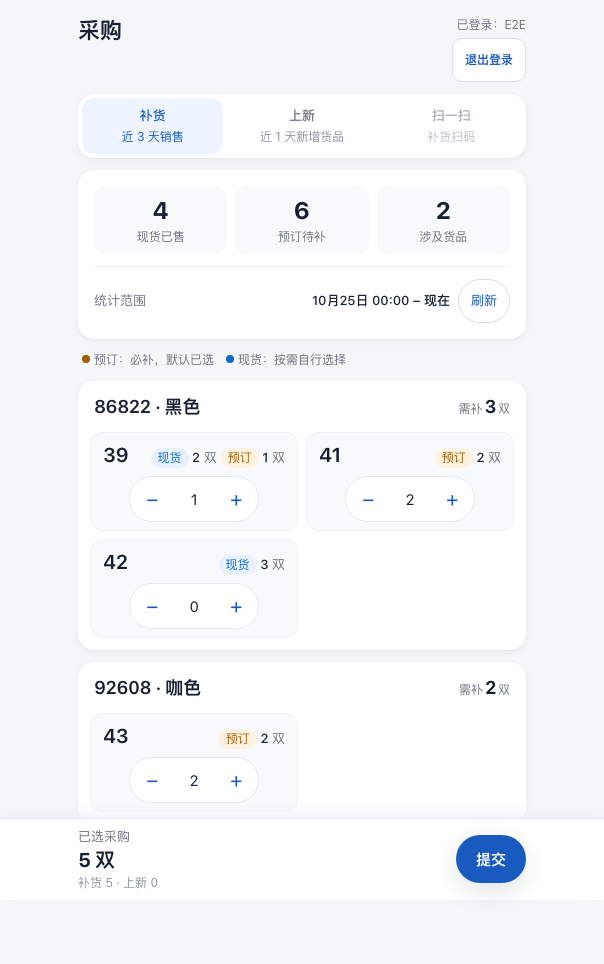
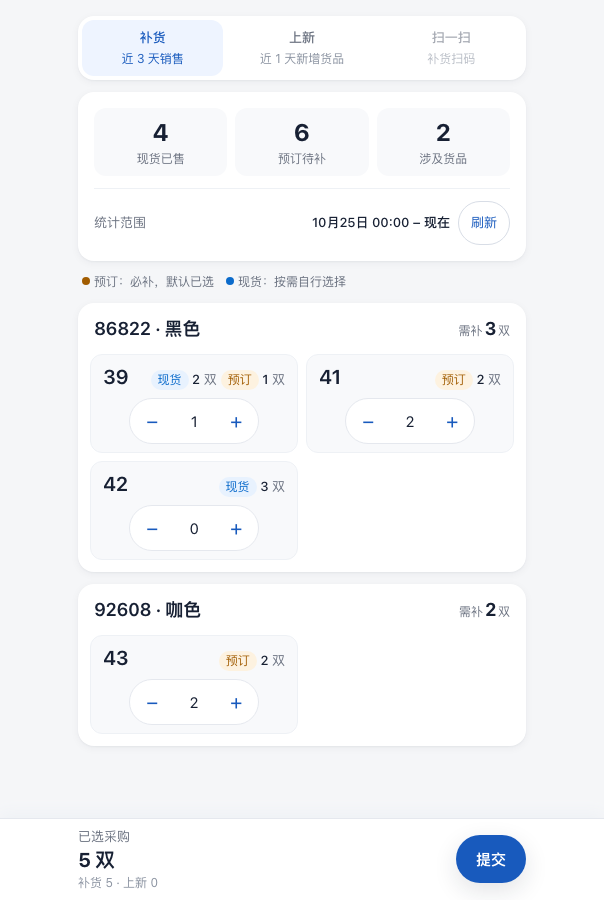
fix(procurement): 顶部去掉登录态（对照交割单页）+ 上新供应商为空不显示「·」
业务负责人 2026-10-29 手机实测：
- 页面顶部**不再渲染登录态**（已登录/退出登录整块去掉），与交割单页一致；顶部直接是三个 tab；
  后台鉴权保留（新增 features/procurement/auth.js：只取身份，401 跳登录，不渲染 UI）；
- 上新卡片副标题：供应商为空时显示「今日 HH:mm 新增」（不再多一个孤立的「·」）；
- 新增 AC-P18e/P18f；frontend 8 绿；e2e 16 passed；全量 2298 tests / 2297 pass / 0 fail；size:check 绿。

diff --git a/server/public/workbench/features/procurement/render.js b/server/public/workbench/features/procurement/render.js
@@ -120,9 +120,11 @@ const newRowHtml = (group, size, draft, store, config) => {
 };
 
 export const newGroupHtml = (group, draft, store, config) => {
-  const subtitle = fill(config.card.newSubtitle, {
+  const supplier = String(group.supplierName || '').trim();
+  // 供应商为空 ⇒ 用无「·」的模板（否则卡片小字会多一个孤零零的「·」）
+  const subtitle = fill(supplier ? config.card.newSubtitle : config.card.newSubtitleNoSupplier, {
     time: formatClock(group.createdAt, config.timezoneOffsetMinutes),
-    supplier: group.supplierName || '',
+    supplier,
   });
   const head = `<div class="pr-group-head">
     <h2 class="pr-group-name">${escapeHtml(titleOf(group, config))}<small>${escapeHtml(subtitle)}</small></h2>
@@ -160,11 +162,9 @@ export const shellHtml = (config) => {
     }
     return `<button ${attrs.join(' ')}>${escapeHtml(tab.label)}<small>${escapeHtml(tab.hint)}</small></button>`;
   }).join('');
-  return `<header class="pr-top">
-    <h1 class="pr-title">${escapeHtml(config.title)}</h1>
-    <div class="pr-auth"><span id="auth-status"></span><button id="logout" class="btn pr-logout hidden" type="button">${escapeHtml(config.texts.logout)}</button></div>
-  </header>
-  <div class="pr-tabs" role="tablist" aria-label="${escapeHtml(config.title)}">${tabs}</div>
+  // 业务负责人 2026-10-29（对照交割单页）：**移动端页面不放登录态** —— 顶部直接是三个 tab，
+  // 省出宽度/高度（登录/退出由外层飞书容器处理，页面内不需要重复展示）。
+  return `<div class="pr-tabs" role="tablist" aria-label="${escapeHtml(config.title)}">${tabs}</div>
   <div class="pr-panel" data-pr-panel="replenish"></div>
   <div class="pr-panel hidden" data-pr-panel="new"></div>
   <div class="pr-bottom"><div class="pr-bottom-inner">

diff --git a/server/public/workbench/features/procurement/index.js b/server/public/workbench/features/procurement/index.js
@@ -7,8 +7,8 @@
  *     只有**提交成功**才清空（`submit.js`）；
  *   · 懒加载：首屏只请求补货一次；点上新才请求；失败给「重新加载」。
  */
-import { api } from '../../core/api-client.js';
-import { requireFeishuAuth, showLoginButton } from '../../core/auth.js';
+import { showLoginButton } from '../../core/auth.js';
+import { ensureProcurementAuth } from './auth.js';
 import { describeError } from '../../core/ui.js';
 import { PROCUREMENT_UI as config } from '../../config/procurement.js';
 import { createApi } from './api.js';
@@ -155,20 +155,17 @@ export function mountProcurementPage(host) {
   });
 
   const start = async () => {
-    let ready = false;
+    let user = null;
     try {
-      ready = await requireFeishuAuth({
-        statusElement: host.querySelector('#auth-status'),
-        logoutButton: host.querySelector('#logout'),
-      });
+      // 只取身份，不渲染登录 UI（页面顶部没有登录态，对照交割单页）
+      user = await ensureProcurementAuth();
     } catch (error) {
       panelEl('replenish').innerHTML = errorHtml(`${config.texts.authFailed}${describeError(error)}`, config);
       showLoginButton();
       return;
     }
-    if (!ready) return;
-    const me = await api.get('/api/auth/feishu/me').catch(() => null);
-    const openId = String(me?.user?.open_id || '');
+    if (!user) return;
+    const openId = String(user.open_id || '');
     if (!openId) {
       panelEl('replenish').innerHTML = errorHtml(config.texts.loadFailed, config);
       return;

diff --git a/server/public/workbench/features/procurement/auth.js b/server/public/workbench/features/procurement/auth.js
@@ -1,0 +1,28 @@
+import { api } from '../../core/api-client.js';
+import { feishuLoginUrl } from '../../core/auth.js';
+
+/**
+ * 采购页鉴权：**只要身份，不渲染登录 UI**（业务负责人 2026-10-29：对照交割单页，移动端顶部不放登录态）。
+ *
+ * 与 `core/auth.js` 的 `requireFeishuAuth` 行为一致（401/未登录 ⇒ 跳登录页；403/5xx ⇒ 抛给调用方显示错误），
+ * 区别只有两点：① 不写「已登录：X」；② 不渲染「退出登录」按钮。
+ * 返回 `body.user`；需要跳转时返回 `null`（调用方直接 return）。
+ */
+export async function ensureProcurementAuth() {
+  let body;
+  try {
+    body = await api.get('/api/auth/feishu/me');
+  } catch (error) {
+    if (error.status === 401) {
+      window.location.href = feishuLoginUrl();
+      return null;
+    }
+    throw error;
+  }
+  if (!body.enabled) throw new Error('飞书身份认证尚未启用，请联系管理员');
+  if (!body.authenticated) {
+    window.location.href = feishuLoginUrl();
+    return null;
+  }
+  return body.user || {};
+}

diff --git a/server/public/workbench/procurement.css b/server/public/workbench/procurement.css
@@ -10,11 +10,6 @@
   padding: var(--space-4);
   padding-bottom: calc(128px + env(safe-area-inset-bottom));
 }
-.pr-top { display: flex; align-items: flex-start; justify-content: space-between; gap: var(--space-3); margin-bottom: var(--space-3); }
-.pr-title { margin: 0; font-size: var(--font-size-2xl); font-weight: var(--weight-bold); line-height: var(--line-height-tight); }
-/* 顶部登录信息：与工作台入口页一致 —— 「已登录：X」和「退出登录」在**同一行**（业务负责人 2026-10-29 反馈） */
-.pr-auth { display: flex; flex-direction: row; align-items: center; justify-content: flex-end; gap: var(--space-2); font-size: var(--font-size-xs); color: var(--text-secondary); white-space: nowrap; }
-.pr-logout { min-height: var(--control-height); }
 
 /* 三个 tab（扫一扫本轮禁用：视觉保留、不可点） */
 .pr-tabs { display: flex; gap: var(--space-2); margin: 0 0 var(--space-3); padding: var(--space-1); border-radius: var(--radius-lg); background: var(--surface); box-shadow: var(--shadow-card); }

diff --git a/server/public/workbench/config/procurement.js b/server/public/workbench/config/procurement.js
@@ -46,7 +46,6 @@ export const PROCUREMENT_UI = Object.freeze({
     noSelection: '还没有选要采购的货品。',
     rangeLabel: '统计范围',
     authFailed: '工作台启动失败：',
-    logout: '退出登录',
   }),
   // 顶部统计（补货 3 项；上新**只有**「新增货品」一项）
   stats: Object.freeze({
@@ -87,6 +86,7 @@ export const PROCUREMENT_UI = Object.freeze({
     titleTemplate: '{itemNo} · {color}',
     titleFallback: '{number} · {color}',
     newSubtitle: '今日 {time} 新增 · {supplier}',
+    newSubtitleNoSupplier: '今日 {time} 新增', // 供应商为空时不显示孤立的「·」（业务负责人 2026-10-29）
     replenishTotal: '需补{total}双',
     newNormalTotal: '普通码 {total} 双',
     specialSummary: '特殊码 · {count} 个（默认 0 双，点开选择）',

diff --git a/server/test/procurementPageFrontend.test.js b/server/test/procurementPageFrontend.test.js
@@ -82,6 +82,12 @@ test('AC-P9/P21 扫一扫本轮占位：tab 视觉保留但禁用；页面不 im
   assert.match(read('src/utils/uiTapReport.js'), /procurement_scan_returned/);
 });
 
+test('AC-P18f 上新副标题：供应商为空时不出现孤立的「·」', () => {
+  const configSource = read(`${PUBLIC}/config/procurement.js`);
+  assert.match(configSource, /newSubtitleNoSupplier: '今日 \{time\} 新增'/);
+  assert.match(read(`${PUBLIC}/features/procurement/render.js`), /supplier \? config\.card\.newSubtitle : config\.card\.newSubtitleNoSupplier/);
+});
+
 test('AC-P19b 实时刷新：刷新按钮 + 自动刷新配置 + 刷新后裁掉已消失的已选行', async () => {
   const configSource = read(`${PUBLIC}/config/procurement.js`);
   assert.match(configSource, /replenish: '\{from\} 00:00 – 现在'/);

diff --git a/server/test/e2e/procurement.spec.js b/server/test/e2e/procurement.spec.js
@@ -13,7 +13,8 @@ import { STORAGE_KEY, mockApi } from './fixtures/procurementMock.js';
 const SHOTS = path.resolve(process.cwd(), '../docs/procurement-page-real-shots');
 
 const openPage = async (page) => {
-  await expect(page.getByRole('heading', { name: '采购' })).toBeVisible();
+  // 顶部已按工作台改成 .header > .auth（登录状态 + 退出登录），页面内不再有「采购」大标题
+  await expect(page.locator('.pr-tabs[role="tablist"]')).toBeVisible();
   await expect(page.getByText('86822 · 黑色')).toBeVisible();
 };
 const tab = (page, name) => page.getByRole('tab', { name });

diff --git a/docs/procurement-page-real-2026-10-28.md b/docs/procurement-page-real-2026-10-28.md
@@ -109,8 +109,10 @@ tab 切换保留当前会话已选数据；点「提交」才统一写入
 - **AC-P17 薄壳 + 模块化**：`procurement.html` 只做壳（引 CSS/模块、挂载根节点，≤200 行）；业务逻辑全在
   `features/procurement/**`；文案/默认值/尺码规则/端点/刷新参数全在 `config/procurement.js`；
   新文件每个 ≤200 行；**不往旧 398 行演示页补逻辑，整体替换**。
-- **AC-P18e 顶部登录信息与工作台入口一致**（业务负责人 2026-10-29 手机实测反馈）：
-  采购页顶部右侧「已登录：X」与「退出登录」**同一行**（不再上下两行）；与供应 → 录单入口页的登录信息展示一致。
+- **AC-P18e 页面顶部不展示登录态**（业务负责人 2026-10-29 手机实测 + 对照交割单页）：移动端宽度有限，
+  采购页**不渲染**「已登录：X / 退出登录」；顶部直接是三个 tab；后台鉴权保留（401 自动跳登录，不显示登录 UI）。
+- **AC-P18f 上新副标题不出现孤立「·」**：上新卡片「今日 HH:mm 新增」；**供应商为空时不再显示「·」**
+  （有供应商才显示「今日 HH:mm 新增 · {供应商}」）。
 - **AC-P18d 上新统计条一行**（业务负责人 2026-10-29 批注）：上新只有 1 个统计项 ⇒
   统计（新增货品 N）+ 统计范围（今日 00:00 – 现在）+「刷新」按钮**排在同一行**（不再大块留白）；补货 3 项统计保持原样。
   （单统计项 ⇒ 一行，直接由"统计项只有 1 个"决定，**不设配置开关**——业务负责人 2026-10-29 确认。）
